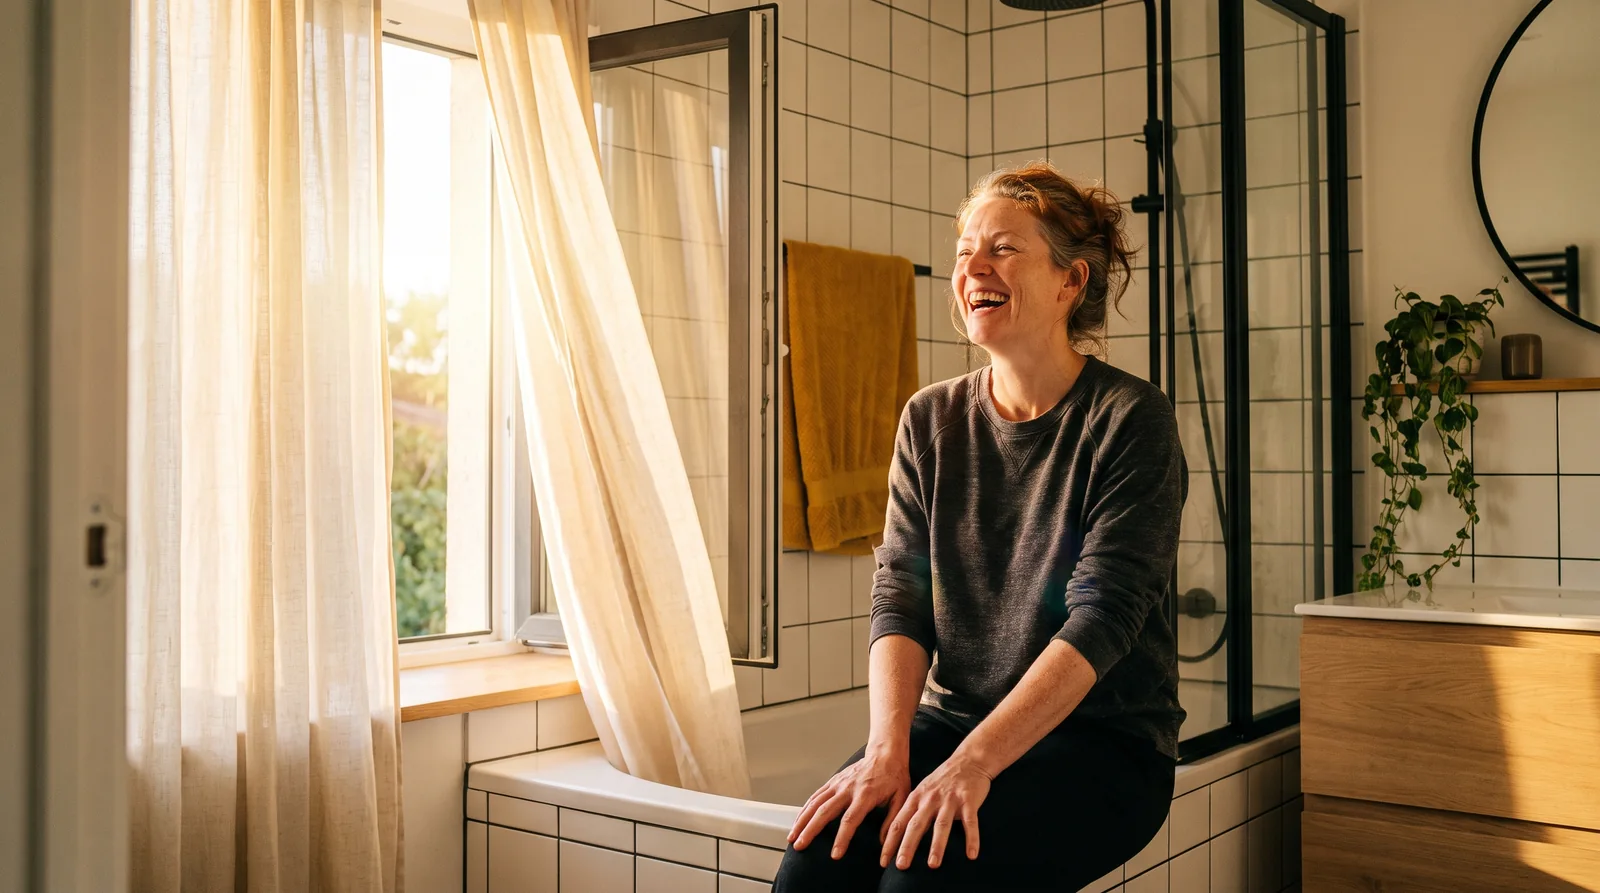
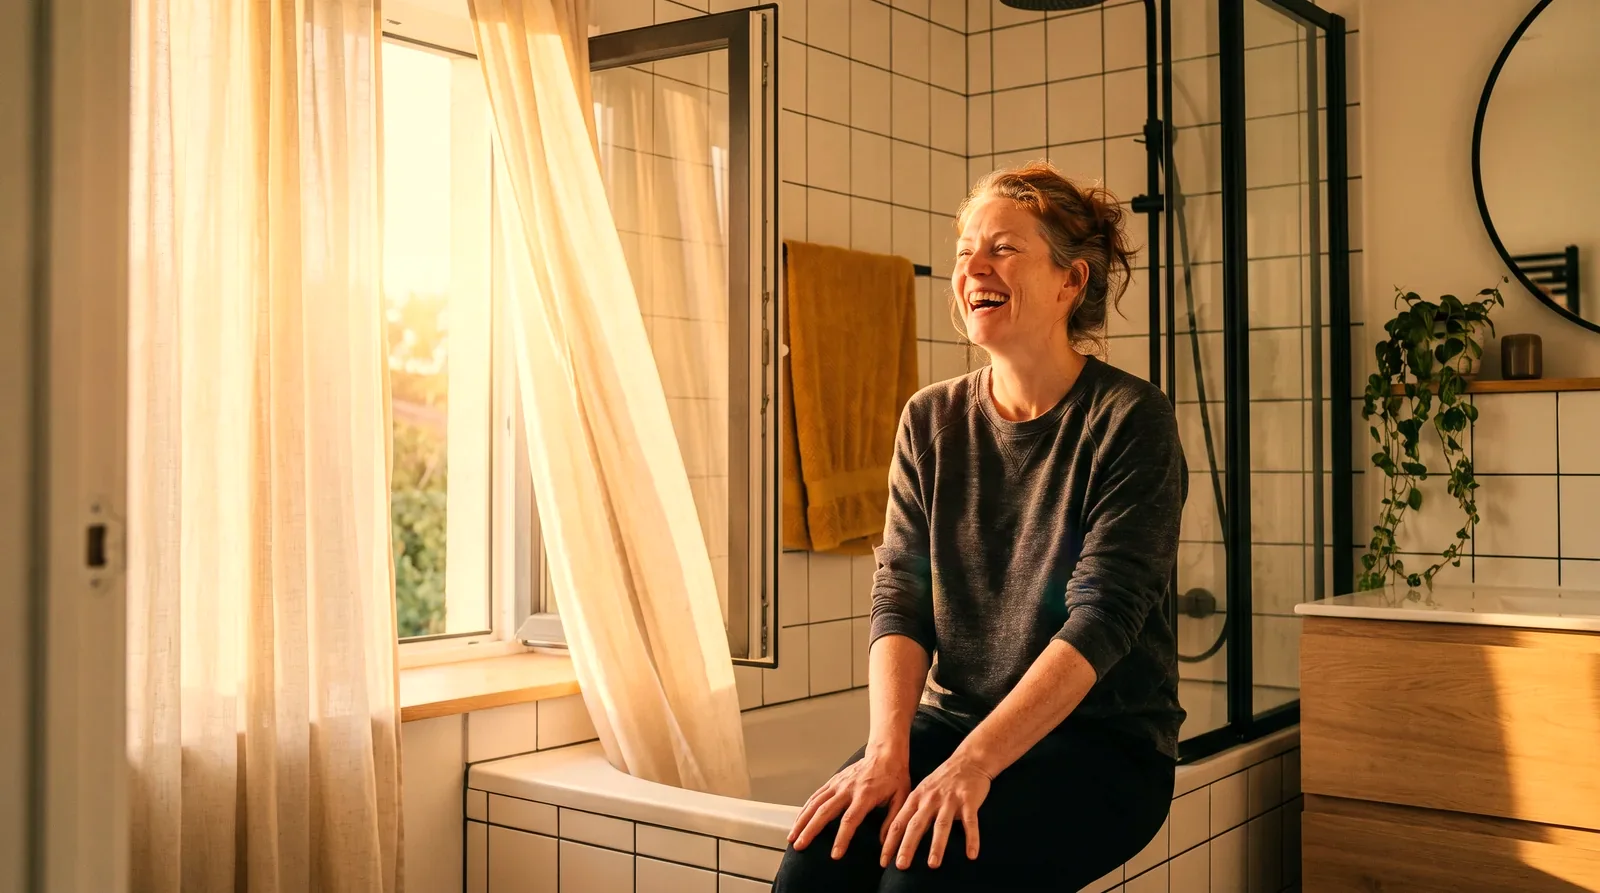
Krud Kutter belonging redo: big real Nashville kitchen, check 15

diff --git a/blog-pipeline/photos-completed/is-krud-kutter-non-toxic.md b/blog-pipeline/photos-completed/is-krud-kutter-non-toxic.md
@@ -4,7 +4,7 @@ post_title: "Is Krud Kutter Really Non-Toxic? (2026)"
 slug: is-krud-kutter-non-toxic
 status: done
 cameron_processed: false
-note: "SHOPPER TRACK, shot on Higgsfield nano-banana-pro at native 2752x1536 and delivered at 1600px webp. Every frame run through the 14-point checklist in PHOTO-CLAUDE-RULES.md before committing. THE PACK WAS LOOKED UP IN CHROME FIRST and the render matches the real bottle: a clear trigger spray bottle of amber liquid with a WHITE trigger sprayer and a big red front label carrying KRUD KUTTER in bold yellow block capitals over CLEANER DEGREASER in white. Prompted with only those words, no small print, no barcode. The post is about the words Non-Toxic and Earth Friendly that Rust-Oleum agreed to strip off the pack, so the label is deliberately shown clean and ordinary, not as a warning. ONE woman across the set: about 54, dark auburn hair in a messy bun going grey, pale freckled skin, dry cracked knuckles, charcoal marl sweatshirt. THE ROOM is her clean modern bathroom: crisp white tiles, a walk-in shower with a black framed screen, a light oak vanity, a round black framed mirror, a mustard towel, a trailing plant, a full length linen curtain at the window. Hero is her kneeling at the shower scrubbing the tiles with the bottle in her other hand, face close to the work, window shut. That IS the exposure the post is about. VILLAIN CARRIES THE ARGUMENT with nobody in it: the bottle alone on the vanity beside a damp cloth in flat cool light. Turning point has her set it down, both hands at her sides, turned to the window, settled, with the label turned away so nothing can be read. BELONGING IS A NEW SETTING: two clearly different women in their fifties filling plain glass jars with homemade jam at a modern kitchen island, both laughing. Freedom is the warmest: her on the edge of the bath with the window wide open and the curtain lifting, hands resting easily on her knees, breathing easily, head back laughing. Two frames were reshot: the first villain rendered a grubby stained public-toilet bathroom instead of her clean modern one, and the first turning point swapped the trigger bottle for a small striped apothecary bottle."
+note: "SHOPPER TRACK, shot on Higgsfield nano-banana-pro at native 2752x1536 and delivered at 1600px webp. Every frame run through the 14-point checklist in PHOTO-CLAUDE-RULES.md before committing. THE PACK WAS LOOKED UP IN CHROME FIRST and the render matches the real bottle: a clear trigger spray bottle of amber liquid with a WHITE trigger sprayer and a big red front label carrying KRUD KUTTER in bold yellow block capitals over CLEANER DEGREASER in white. Prompted with only those words, no small print, no barcode. The post is about the words Non-Toxic and Earth Friendly that Rust-Oleum agreed to strip off the pack, so the label is deliberately shown clean and ordinary, not as a warning. ONE woman across the set: about 54, dark auburn hair in a messy bun going grey, pale freckled skin, dry cracked knuckles, charcoal marl sweatshirt. THE ROOM is her clean modern bathroom: crisp white tiles, a walk-in shower with a black framed screen, a light oak vanity, a round black framed mirror, a mustard towel, a trailing plant, a full length linen curtain at the window. Hero is her kneeling at the shower scrubbing the tiles with the bottle in her other hand, face close to the work, window shut. That IS the exposure the post is about. VILLAIN CARRIES THE ARGUMENT with nobody in it: the bottle alone on the vanity beside a damp cloth in flat cool light. Turning point has her set it down, both hands at her sides, turned to the window, settled, with the label turned away so nothing can be read. BELONGING IS A NEW SETTING: two clearly different women in their fifties filling plain glass jars with homemade jam at a modern kitchen island, both laughing. Freedom is the warmest: her on the edge of the bath with the window wide open and the curtain lifting, hands resting easily on her knees, breathing easily, head back laughing. Two frames were reshot: the first villain rendered a grubby stained public-toilet bathroom instead of her clean modern one, and the first turning point swapped the trigger bottle for a small striped apothecary bottle. Belonging redone 2026-10-12 for check 15; it was the only kitchen frame and was a tight crop of a small kitchen with a built-in oven. New belonging is a wide shot of a big lived-in kitchen in a suburban house in Nashville, Tennessee: sage green shaker cabinets, open shelves of bowls only, a big butcher block island, stainless French-door fridge, dishwasher, farmhouse sink, range with full oven door and an oven mitt, floor-length natural linen curtains on black rods at the patio doors and windows, the same two women laughing as they ladle berry jam into jars. Cups were removed from the open shelves by edit and the range display painted dark by hand. Hero, villain, turning point (the bathroom) and freedom kept; villain cooled and freedom warmed. Measured R/B ramp: villain 0.88, hero 1.04, turning point 1.22, belonging 1.47, freedom 1.75."
 ---
 
 ### iskrudkutte-hero-v1
